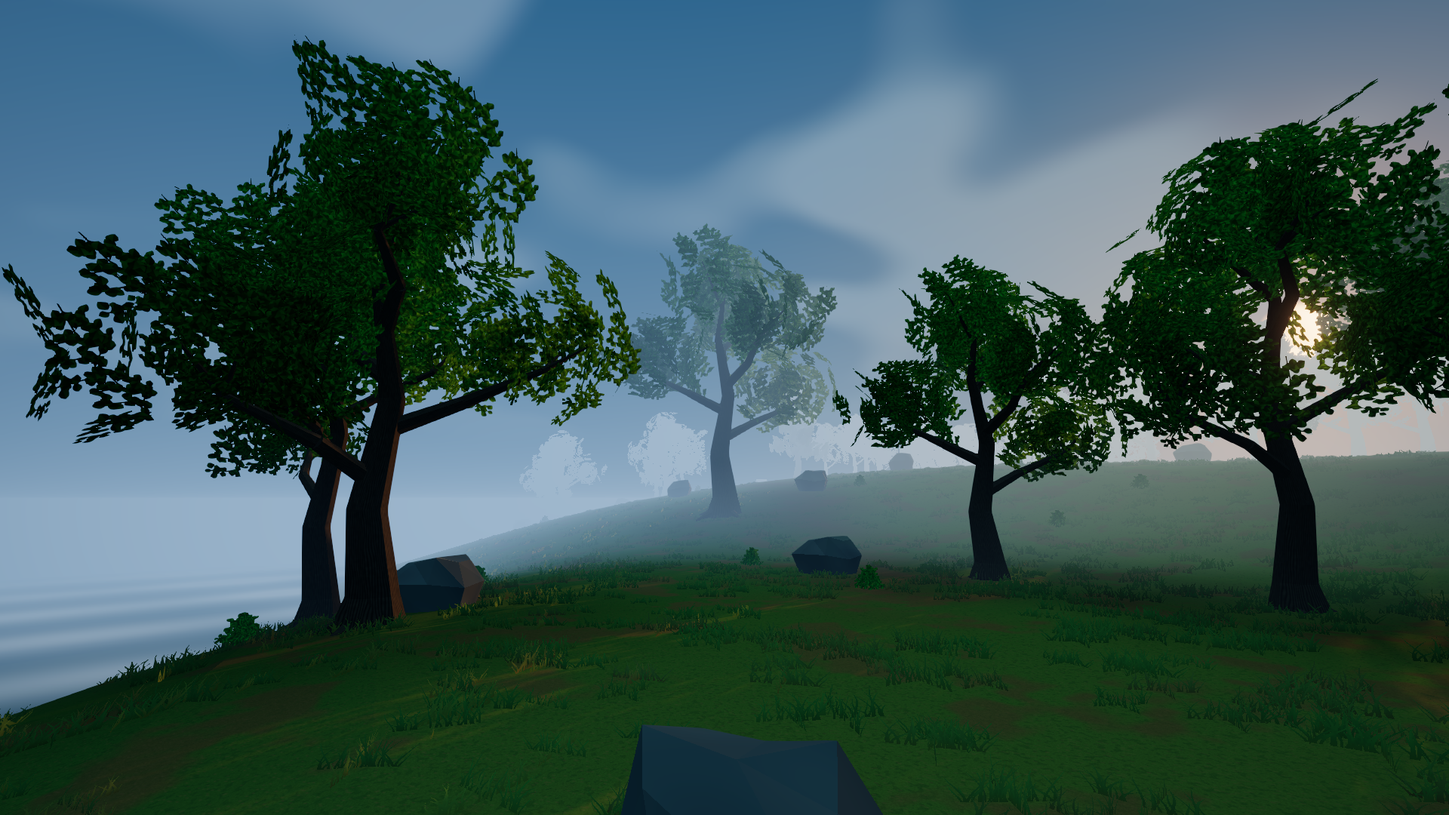
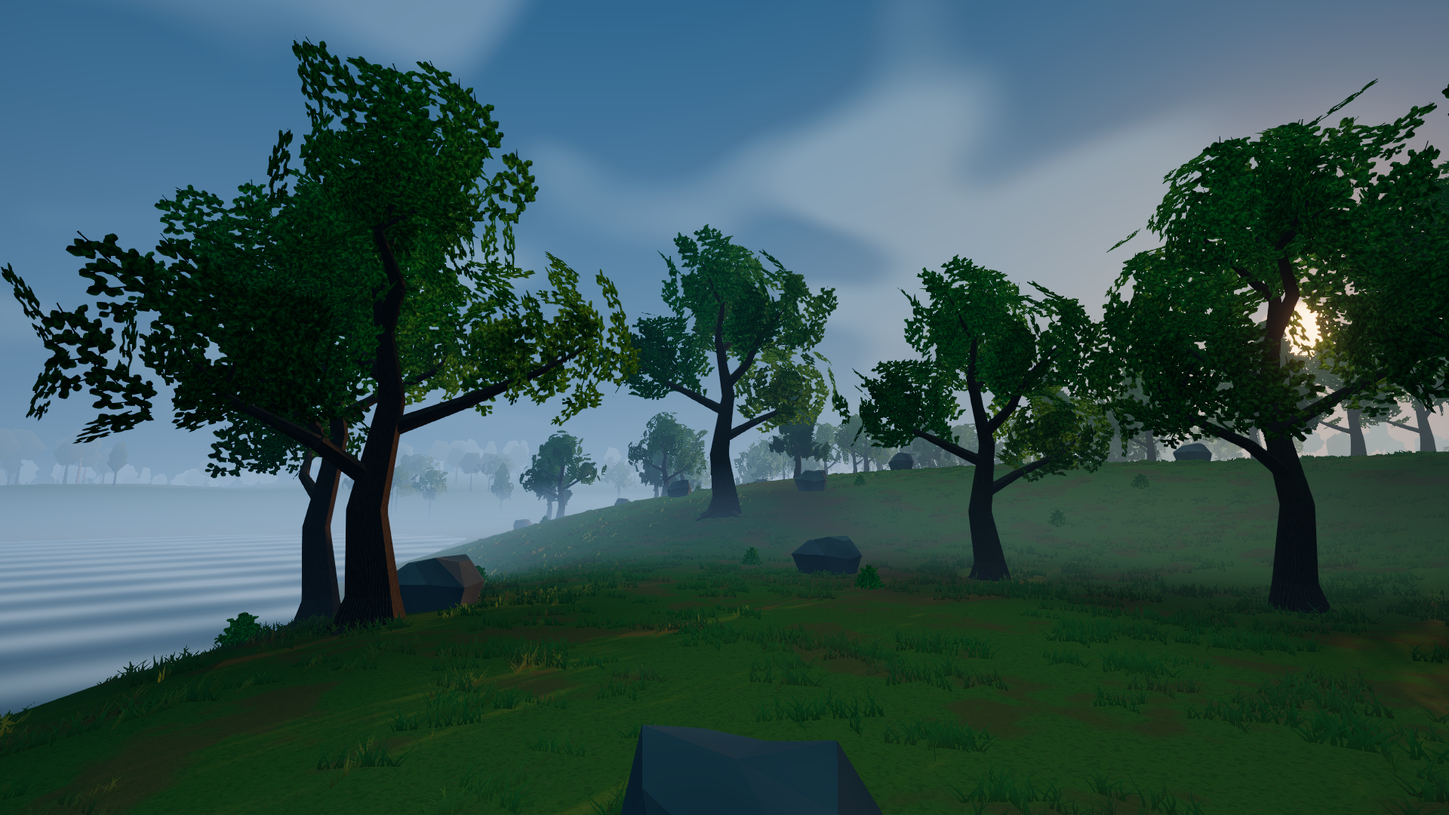
Publish distant landscape study 06 with earlier fog comparisons

diff --git a/index.html b/index.html
@@ -1,16 +1,16 @@
 <!doctype html>
-<html lang="en"><head><meta charset="utf-8"><meta name="viewport" content="width=device-width, initial-scale=1"><meta name="theme-color" content="#101a15"><meta name="description" content="Ten in-engine forest, coast, and shelter screenshots from the Survival prototype."><title>Survival - Environment Gallery</title><link rel="stylesheet" href="style.css?v=5"></head>
-<body><header class="wrap masthead"><a class="brand" href="index.html">SURVIVAL <span>DEVELOPMENT GALLERY</span></a><span class="edition">ENVIRONMENT STUDY 05</span></header>
-<main class="wrap"><section class="intro"><p class="eyebrow">FOREST / COAST / SHELTER</p><h1>A world in different light.</h1><p class="lead">Ten in-engine views with spatial anti-aliasing, HDR lighting and preset colour grading, deeper foliage colours, ground-blended grass roots, and a directional sky horizon.</p><p class="hint">Choose a view. Tap its image for the full-resolution screenshot. The canopy and shelter pages retain earlier rendering studies for comparison. Contact occlusion is off in these default views.</p></section>
-<section class="gallery" aria-label="Environment screenshots"><a class="card" href="clearing.html"><img src="images/clearing-thumb.jpg?v=5" width="640" height="360" alt="The ordinary player camera with branching tree families, finer grass, and irregular rocks." fetchpriority="high"><div class="card-body"><span class="number">DAY / PLAYABLE VIEW</span><h2>Through the clearing</h2><p>The ordinary player camera with branching tree families, finer grass, and irregular rocks.</p><span class="open">Open view <span aria-hidden="true">&#8599;</span></span></div></a>
-<a class="card" href="canopy.html"><img src="images/canopy-thumb.jpg?v=5" width="640" height="360" alt="Deeper foliage, warmer backlighting, spatial anti-aliasing, and a shared directional sky/fog horizon. Earlier studies below show the progression." loading="lazy"><div class="card-body"><span class="number">DAY / CANOPY COMPARISON</span><h2>Under the branches</h2><p>Deeper foliage, warmer backlighting, spatial anti-aliasing, and a shared directional sky/fog horizon. Earlier studies below show the progression.</p><span class="open">Open view <span aria-hidden="true">&#8599;</span></span></div></a>
-<a class="card" href="grass.html"><img src="images/grass-thumb.jpg?v=5" width="640" height="360" alt="Shorter fine grass with occasional taller accents, sparse flowers, and coherent ground patches." loading="lazy"><div class="card-body"><span class="number">DAY / GROUND DETAIL</span><h2>At meadow height</h2><p>Shorter fine grass with occasional taller accents, sparse flowers, and coherent ground patches.</p><span class="open">Open view <span aria-hidden="true">&#8599;</span></span></div></a>
-<a class="card" href="coast.html"><img src="images/coast-thumb.jpg?v=5" width="640" height="360" alt="The shoreline and a simple ripple-lighting water study. Water remains visual only." loading="lazy"><div class="card-body"><span class="number">DAY / COAST</span><h2>Where the meadow meets water</h2><p>The shoreline and a simple ripple-lighting water study. Water remains visual only.</p><span class="open">Open view <span aria-hidden="true">&#8599;</span></span></div></a>
-<a class="card" href="ridge.html"><img src="images/ridge-thumb.jpg?v=5" width="640" height="360" alt="A wide coastal panorama with mixed tree silhouettes and distant mist." loading="lazy"><div class="card-body"><span class="number">DAY / LANDSCAPE</span><h2>Across the forest edge</h2><p>A wide coastal panorama with mixed tree silhouettes and distant mist.</p><span class="open">Open view <span aria-hidden="true">&#8599;</span></span></div></a>
-<a class="card" href="dawn.html"><img src="images/dawn-thumb.jpg?v=5" width="640" height="360" alt="A curated dawn preset: low warm sunlight, cooler ambient light, and heavier mist." loading="lazy"><div class="card-body"><span class="number">DAWN / LIGHTING STUDY</span><h2>Cool morning mist</h2><p>A curated dawn preset: low warm sunlight, cooler ambient light, and heavier mist.</p><span class="open">Open view <span aria-hidden="true">&#8599;</span></span></div></a>
-<a class="card" href="golden.html"><img src="images/golden-thumb.jpg?v=5" width="640" height="360" alt="A warm low-sun preset for checking foliage volume and long shadows." loading="lazy"><div class="card-body"><span class="number">GOLDEN HOUR / LIGHTING STUDY</span><h2>Late light in the meadow</h2><p>A warm low-sun preset for checking foliage volume and long shadows.</p><span class="open">Open view <span aria-hidden="true">&#8599;</span></span></div></a>
-<a class="card" href="overcast.html"><img src="images/overcast-thumb.jpg?v=5" width="640" height="360" alt="A softer cool-light preset that exposes silhouettes and ground detail without strong sunlight." loading="lazy"><div class="card-body"><span class="number">OVERCAST / LIGHTING STUDY</span><h2>A quieter forest path</h2><p>A softer cool-light preset that exposes silhouettes and ground detail without strong sunlight.</p><span class="open">Open view <span aria-hidden="true">&#8599;</span></span></div></a>
-<a class="card" href="shelter.html"><img src="images/shelter-thumb.jpg?v=5" width="640" height="360" alt="A staged fixture built from the existing foundation, floor, wall, doorway, and flat-roof pieces." loading="lazy"><div class="card-body"><span class="number">DAY / CONSTRUCTION STUDY</span><h2>A shelter in the clearing</h2><p>A staged fixture built from the existing foundation, floor, wall, doorway, and flat-roof pieces.</p><span class="open">Open view <span aria-hidden="true">&#8599;</span></span></div></a>
-<a class="card" href="dusk.html"><img src="images/dusk-thumb.jpg?v=5" width="640" height="360" alt="The same prototype pieces at dusk with a capture-only ember and point-light fixture. Campfire gameplay is not implemented." loading="lazy"><div class="card-body"><span class="number">DUSK / LOCAL LIGHT STUDY</span><h2>Warmth beside the shelter</h2><p>The same prototype pieces at dusk with a capture-only ember and point-light fixture. Campfire gameplay is not implemented.</p><span class="open">Open view <span aria-hidden="true">&#8599;</span></span></div></a></section>
+<html lang="en"><head><meta charset="utf-8"><meta name="viewport" content="width=device-width, initial-scale=1"><meta name="theme-color" content="#101a15"><meta name="description" content="Ten in-engine forest, coast, and shelter screenshots from the Survival prototype."><title>Survival - Environment Gallery</title><link rel="stylesheet" href="style.css?v=6"></head>
+<body><header class="wrap masthead"><a class="brand" href="index.html">SURVIVAL <span>DEVELOPMENT GALLERY</span></a><span class="edition">ENVIRONMENT STUDY 06</span></header>
+<main class="wrap"><section class="intro"><p class="eyebrow">FOREST / COAST / SHELTER</p><h1>A world in different light.</h1><p class="lead">Ten in-engine views with distant terrain and forest silhouettes beyond the interactive world window. Coverage-aware haze reveals a longer middle distance while the near-world gameplay budget stays bounded.</p><p class="hint">Choose a view. Tap its image for the full-resolution screenshot. Clearing, landscape, and canopy views compare the earlier fog boundary. Other pages retain earlier rendering studies. Contact occlusion is off in these default views.</p></section>
+<section class="gallery" aria-label="Environment screenshots"><a class="card" href="clearing.html"><img src="images/clearing-thumb.jpg?v=6" width="640" height="360" alt="The ordinary player camera with the nearby forest and a new visual-only distant landscape." fetchpriority="high"><div class="card-body"><span class="number">DAY / PLAYABLE VIEW</span><h2>Through the clearing</h2><p>The ordinary player camera with the nearby forest and a new visual-only distant landscape.</p><span class="open">Open view <span aria-hidden="true">&#8599;</span></span></div></a>
+<a class="card" href="canopy.html"><img src="images/canopy-thumb.jpg?v=6" width="640" height="360" alt="Deeper foliage, warmer backlighting, spatial anti-aliasing, and a shared directional sky/fog horizon. Earlier studies below show the progression." loading="lazy"><div class="card-body"><span class="number">DAY / CANOPY COMPARISON</span><h2>Under the branches</h2><p>Deeper foliage, warmer backlighting, spatial anti-aliasing, and a shared directional sky/fog horizon. Earlier studies below show the progression.</p><span class="open">Open view <span aria-hidden="true">&#8599;</span></span></div></a>
+<a class="card" href="grass.html"><img src="images/grass-thumb.jpg?v=6" width="640" height="360" alt="Shorter fine grass with occasional taller accents, sparse flowers, and coherent ground patches." loading="lazy"><div class="card-body"><span class="number">DAY / GROUND DETAIL</span><h2>At meadow height</h2><p>Shorter fine grass with occasional taller accents, sparse flowers, and coherent ground patches.</p><span class="open">Open view <span aria-hidden="true">&#8599;</span></span></div></a>
+<a class="card" href="coast.html"><img src="images/coast-thumb.jpg?v=6" width="640" height="360" alt="The shoreline and a simple ripple-lighting water study. Water remains visual only." loading="lazy"><div class="card-body"><span class="number">DAY / COAST</span><h2>Where the meadow meets water</h2><p>The shoreline and a simple ripple-lighting water study. Water remains visual only.</p><span class="open">Open view <span aria-hidden="true">&#8599;</span></span></div></a>
+<a class="card" href="ridge.html"><img src="images/ridge-thumb.jpg?v=6" width="640" height="360" alt="A wider coastal panorama showing coarse distant land, combined forest silhouettes, and coverage-aware haze." loading="lazy"><div class="card-body"><span class="number">DAY / LANDSCAPE</span><h2>Across the forest edge</h2><p>A wider coastal panorama showing coarse distant land, combined forest silhouettes, and coverage-aware haze.</p><span class="open">Open view <span aria-hidden="true">&#8599;</span></span></div></a>
+<a class="card" href="dawn.html"><img src="images/dawn-thumb.jpg?v=6" width="640" height="360" alt="A curated dawn preset: low warm sunlight, cooler ambient light, and heavier mist." loading="lazy"><div class="card-body"><span class="number">DAWN / LIGHTING STUDY</span><h2>Cool morning mist</h2><p>A curated dawn preset: low warm sunlight, cooler ambient light, and heavier mist.</p><span class="open">Open view <span aria-hidden="true">&#8599;</span></span></div></a>
+<a class="card" href="golden.html"><img src="images/golden-thumb.jpg?v=6" width="640" height="360" alt="A warm low-sun preset for checking foliage volume and long shadows." loading="lazy"><div class="card-body"><span class="number">GOLDEN HOUR / LIGHTING STUDY</span><h2>Late light in the meadow</h2><p>A warm low-sun preset for checking foliage volume and long shadows.</p><span class="open">Open view <span aria-hidden="true">&#8599;</span></span></div></a>
+<a class="card" href="overcast.html"><img src="images/overcast-thumb.jpg?v=6" width="640" height="360" alt="A softer cool-light preset that exposes silhouettes and ground detail without strong sunlight." loading="lazy"><div class="card-body"><span class="number">OVERCAST / LIGHTING STUDY</span><h2>A quieter forest path</h2><p>A softer cool-light preset that exposes silhouettes and ground detail without strong sunlight.</p><span class="open">Open view <span aria-hidden="true">&#8599;</span></span></div></a>
+<a class="card" href="shelter.html"><img src="images/shelter-thumb.jpg?v=6" width="640" height="360" alt="A staged fixture built from the existing foundation, floor, wall, doorway, and flat-roof pieces." loading="lazy"><div class="card-body"><span class="number">DAY / CONSTRUCTION STUDY</span><h2>A shelter in the clearing</h2><p>A staged fixture built from the existing foundation, floor, wall, doorway, and flat-roof pieces.</p><span class="open">Open view <span aria-hidden="true">&#8599;</span></span></div></a>
+<a class="card" href="dusk.html"><img src="images/dusk-thumb.jpg?v=6" width="640" height="360" alt="The same prototype pieces at dusk with a capture-only ember and point-light fixture. Campfire gameplay is not implemented." loading="lazy"><div class="card-body"><span class="number">DUSK / LOCAL LIGHT STUDY</span><h2>Warmth beside the shelter</h2><p>The same prototype pieces at dusk with a capture-only ember and point-light fixture. Campfire gameplay is not implemented.</p><span class="open">Open view <span aria-hidden="true">&#8599;</span></span></div></a></section>
 <aside class="note"><strong>A work in progress.</strong> Original procedural assets, rendered in the game. Dawn, golden-hour, overcast, and dusk images use curated art presets; they do not demonstrate a day/night or weather cycle. Shelter scenes are staged from existing build pieces, and the dusk fire is a lighting fixture. This is a screenshot gallery, not a playable mobile game.</aside></main>
-<footer class="wrap footer">SURVIVAL <span>Environment study 05 - ten views</span></footer></body></html>
+<footer class="wrap footer">SURVIVAL <span>Environment study 06 - ten views</span></footer></body></html>

diff --git a/canopy.html b/canopy.html
@@ -1,7 +1,7 @@
 <!doctype html>
-<html lang="en"><head><meta charset="utf-8"><meta name="viewport" content="width=device-width, initial-scale=1"><meta name="theme-color" content="#101a15"><title>Under the branches - Survival Gallery</title><link rel="stylesheet" href="style.css?v=5"></head>
-<body><header class="wrap masthead"><a class="brand" href="index.html">SURVIVAL <span>DEVELOPMENT GALLERY</span></a><span class="edition">ENVIRONMENT STUDY 05</span></header>
+<html lang="en"><head><meta charset="utf-8"><meta name="viewport" content="width=device-width, initial-scale=1"><meta name="theme-color" content="#101a15"><title>Under the branches - Survival Gallery</title><link rel="stylesheet" href="style.css?v=6"></head>
+<body><header class="wrap masthead"><a class="brand" href="index.html">SURVIVAL <span>DEVELOPMENT GALLERY</span></a><span class="edition">ENVIRONMENT STUDY 06</span></header>
 <main class="wrap"><section class="view-header"><a class="back" href="index.html">&#8592; All views</a><p class="eyebrow">DAY / CANOPY COMPARISON</p><h1>Under the branches</h1><p>Deeper foliage, warmer backlighting, spatial anti-aliasing, and a shared directional sky/fog horizon. Earlier studies below show the progression.</p></section>
-<figure class="image-frame"><a href="images/canopy-full.png?v=5"><img src="images/canopy.jpg?v=5" width="1280" height="720" alt="Deeper foliage, warmer backlighting, spatial anti-aliasing, and a shared directional sky/fog horizon. Earlier studies below show the progression." fetchpriority="high"></a><figcaption>Captured in Unity at 1920 &#215; 1080. Tap the image for the original PNG. Lighting variants are curated art presets, not a running day/night or weather system.</figcaption></figure><section class="view-header"><h2>Before this rendering pass</h2><p>Study 04: the same camera before SMAA, HDR capture and grading, foliage colours, grass-root blending, and directional horizon tint. Wind can differ between captures.</p></section><figure class="image-frame"><a href="images/study04-canopy-full.png"><img src="images/study04-canopy.jpg" width="1280" height="720" alt="Study 04 before the rendering recommendations pass" loading="lazy"></a><figcaption>Study 04. Tap for the original screenshot.</figcaption></figure><section class="view-header"><h2>Before the lighting pass</h2><p>Study 03: the same camera and procedural assets before the sunlight, ambient shading, and fog changes. Wind can differ between captures.</p></section><figure class="image-frame"><a href="images/study03-canopy-full.png"><img src="images/study03-canopy.jpg" width="1280" height="720" alt="Study 03 before the lighting pass" loading="lazy"></a><figcaption>Study 03. Tap for the original screenshot.</figcaption></figure><section class="view-header"><h2>Forest study 02</h2><p>The same camera before the branch-led tree, rock, and ground-cover changes.</p></section><figure class="image-frame"><a href="images/study02-canopy-full.png"><img src="images/study02-canopy.jpg" width="1280" height="720" alt="Study 02 canopy capture before the branch-led tree family changes" loading="lazy"></a><figcaption>Study 02. Tap for the original screenshot.</figcaption></figure><section class="view-header"><h2>Original procedural study</h2><p>An earlier build using the same camera position, not another current lighting preset.</p></section><figure class="image-frame"><a href="images/before-canopy-full.png"><img src="images/before-canopy.jpg" width="1280" height="720" alt="Earlier canopy study with repeated branch shapes and larger leaf patterns" loading="lazy"></a><figcaption>Original study. Tap for the original screenshot.</figcaption></figure>
+<figure class="image-frame"><a href="images/canopy-full.png?v=6"><img src="images/canopy.jpg?v=6" width="1280" height="720" alt="Deeper foliage, warmer backlighting, spatial anti-aliasing, and a shared directional sky/fog horizon. Earlier studies below show the progression." fetchpriority="high"></a><figcaption>Captured in Unity at 1920 &#215; 1080. Tap the image for the original PNG. Lighting variants are curated art presets, not a running day/night or weather system.</figcaption></figure><section class="view-header"><h2>Before distant landscape coverage</h2><p>Study 05: the same camera with the earlier short fog boundary. The current view adds coarse visual-only terrain and tree silhouettes; wind can differ.</p></section><figure class="image-frame"><a href="images/study05-canopy-full.png"><img src="images/study05-canopy.jpg" width="1280" height="720" alt="Study 05 before distant terrain and tree coverage" loading="lazy"></a><figcaption>Study 05. Tap for the original screenshot.</figcaption></figure><section class="view-header"><h2>Before this rendering pass</h2><p>Study 04: the same camera before SMAA, HDR capture and grading, foliage colours, grass-root blending, and directional horizon tint. Wind can differ between captures.</p></section><figure class="image-frame"><a href="images/study04-canopy-full.png"><img src="images/study04-canopy.jpg" width="1280" height="720" alt="Study 04 before the rendering recommendations pass" loading="lazy"></a><figcaption>Study 04. Tap for the original screenshot.</figcaption></figure><section class="view-header"><h2>Before the lighting pass</h2><p>Study 03: the same camera and procedural assets before the sunlight, ambient shading, and fog changes. Wind can differ between captures.</p></section><figure class="image-frame"><a href="images/study03-canopy-full.png"><img src="images/study03-canopy.jpg" width="1280" height="720" alt="Study 03 before the lighting pass" loading="lazy"></a><figcaption>Study 03. Tap for the original screenshot.</figcaption></figure><section class="view-header"><h2>Forest study 02</h2><p>The same camera before the branch-led tree, rock, and ground-cover changes.</p></section><figure class="image-frame"><a href="images/study02-canopy-full.png"><img src="images/study02-canopy.jpg" width="1280" height="720" alt="Study 02 canopy capture before the branch-led tree family changes" loading="lazy"></a><figcaption>Study 02. Tap for the original screenshot.</figcaption></figure><section class="view-header"><h2>Original procedural study</h2><p>An earlier build using the same camera position, not another current lighting preset.</p></section><figure class="image-frame"><a href="images/before-canopy-full.png"><img src="images/before-canopy.jpg" width="1280" height="720" alt="Earlier canopy study with repeated branch shapes and larger leaf patterns" loading="lazy"></a><figcaption>Original study. Tap for the original screenshot.</figcaption></figure>
 <nav class="view-nav" aria-label="Screenshot navigation"><a href="clearing.html">&#8592; Through the clearing</a><a class="next" href="grass.html">At meadow height &#8594;</a></nav></main>
 <footer class="wrap footer">SURVIVAL <span>In-engine development captures</span></footer></body></html>

diff --git a/shelter.html b/shelter.html
@@ -1,7 +1,7 @@
 <!doctype html>
-<html lang="en"><head><meta charset="utf-8"><meta name="viewport" content="width=device-width, initial-scale=1"><meta name="theme-color" content="#101a15"><title>A shelter in the clearing - Survival Gallery</title><link rel="stylesheet" href="style.css?v=5"></head>
-<body><header class="wrap masthead"><a class="brand" href="index.html">SURVIVAL <span>DEVELOPMENT GALLERY</span></a><span class="edition">ENVIRONMENT STUDY 05</span></header>
+<html lang="en"><head><meta charset="utf-8"><meta name="viewport" content="width=device-width, initial-scale=1"><meta name="theme-color" content="#101a15"><title>A shelter in the clearing - Survival Gallery</title><link rel="stylesheet" href="style.css?v=6"></head>
+<body><header class="wrap masthead"><a class="brand" href="index.html">SURVIVAL <span>DEVELOPMENT GALLERY</span></a><span class="edition">ENVIRONMENT STUDY 06</span></header>
 <main class="wrap"><section class="view-header"><a class="back" href="index.html">&#8592; All views</a><p class="eyebrow">DAY / CONSTRUCTION STUDY</p><h1>A shelter in the clearing</h1><p>A staged fixture built from the existing foundation, floor, wall, doorway, and flat-roof pieces.</p></section>
-<figure class="image-frame"><a href="images/shelter-full.png?v=5"><img src="images/shelter.jpg?v=5" width="1280" height="720" alt="A staged fixture built from the existing foundation, floor, wall, doorway, and flat-roof pieces." fetchpriority="high"></a><figcaption>Captured in Unity at 1920 &#215; 1080. Tap the image for the original PNG. Lighting variants are curated art presets, not a running day/night or weather system.</figcaption></figure><section class="view-header"><h2>Before this rendering pass</h2><p>Study 04: the same camera before SMAA, HDR capture and grading, foliage colours, grass-root blending, and directional horizon tint. Wind can differ between captures.</p></section><figure class="image-frame"><a href="images/study04-shelter-full.png"><img src="images/study04-shelter.jpg" width="1280" height="720" alt="Study 04 before the rendering recommendations pass" loading="lazy"></a><figcaption>Study 04. Tap for the original screenshot.</figcaption></figure><section class="view-header"><h2>Before the lighting pass</h2><p>Study 03: the same camera and procedural assets before the sunlight, ambient shading, and fog changes. Wind can differ between captures.</p></section><figure class="image-frame"><a href="images/study03-shelter-full.png"><img src="images/study03-shelter.jpg" width="1280" height="720" alt="Study 03 before the lighting pass" loading="lazy"></a><figcaption>Study 03. Tap for the original screenshot.</figcaption></figure>
+<figure class="image-frame"><a href="images/shelter-full.png?v=6"><img src="images/shelter.jpg?v=6" width="1280" height="720" alt="A staged fixture built from the existing foundation, floor, wall, doorway, and flat-roof pieces." fetchpriority="high"></a><figcaption>Captured in Unity at 1920 &#215; 1080. Tap the image for the original PNG. Lighting variants are curated art presets, not a running day/night or weather system.</figcaption></figure><section class="view-header"><h2>Before this rendering pass</h2><p>Study 04: the same camera before SMAA, HDR capture and grading, foliage colours, grass-root blending, and directional horizon tint. Wind can differ between captures.</p></section><figure class="image-frame"><a href="images/study04-shelter-full.png"><img src="images/study04-shelter.jpg" width="1280" height="720" alt="Study 04 before the rendering recommendations pass" loading="lazy"></a><figcaption>Study 04. Tap for the original screenshot.</figcaption></figure><section class="view-header"><h2>Before the lighting pass</h2><p>Study 03: the same camera and procedural assets before the sunlight, ambient shading, and fog changes. Wind can differ between captures.</p></section><figure class="image-frame"><a href="images/study03-shelter-full.png"><img src="images/study03-shelter.jpg" width="1280" height="720" alt="Study 03 before the lighting pass" loading="lazy"></a><figcaption>Study 03. Tap for the original screenshot.</figcaption></figure>
 <nav class="view-nav" aria-label="Screenshot navigation"><a href="overcast.html">&#8592; A quieter forest path</a><a class="next" href="dusk.html">Warmth beside the shelter &#8594;</a></nav></main>
 <footer class="wrap footer">SURVIVAL <span>In-engine development captures</span></footer></body></html>

diff --git a/clearing.html b/clearing.html
@@ -1,7 +1,7 @@
 <!doctype html>
-<html lang="en"><head><meta charset="utf-8"><meta name="viewport" content="width=device-width, initial-scale=1"><meta name="theme-color" content="#101a15"><title>Through the clearing - Survival Gallery</title><link rel="stylesheet" href="style.css?v=5"></head>
-<body><header class="wrap masthead"><a class="brand" href="index.html">SURVIVAL <span>DEVELOPMENT GALLERY</span></a><span class="edition">ENVIRONMENT STUDY 05</span></header>
-<main class="wrap"><section class="view-header"><a class="back" href="index.html">&#8592; All views</a><p class="eyebrow">DAY / PLAYABLE VIEW</p><h1>Through the clearing</h1><p>The ordinary player camera with branching tree families, finer grass, and irregular rocks.</p></section>
-<figure class="image-frame"><a href="images/clearing-full.png?v=5"><img src="images/clearing.jpg?v=5" width="1280" height="720" alt="The ordinary player camera with branching tree families, finer grass, and irregular rocks." fetchpriority="high"></a><figcaption>Captured in Unity at 1920 &#215; 1080. Tap the image for the original PNG. Lighting variants are curated art presets, not a running day/night or weather system.</figcaption></figure>
+<html lang="en"><head><meta charset="utf-8"><meta name="viewport" content="width=device-width, initial-scale=1"><meta name="theme-color" content="#101a15"><title>Through the clearing - Survival Gallery</title><link rel="stylesheet" href="style.css?v=6"></head>
+<body><header class="wrap masthead"><a class="brand" href="index.html">SURVIVAL <span>DEVELOPMENT GALLERY</span></a><span class="edition">ENVIRONMENT STUDY 06</span></header>
+<main class="wrap"><section class="view-header"><a class="back" href="index.html">&#8592; All views</a><p class="eyebrow">DAY / PLAYABLE VIEW</p><h1>Through the clearing</h1><p>The ordinary player camera with the nearby forest and a new visual-only distant landscape.</p></section>
+<figure class="image-frame"><a href="images/clearing-full.png?v=6"><img src="images/clearing.jpg?v=6" width="1280" height="720" alt="The ordinary player camera with the nearby forest and a new visual-only distant landscape." fetchpriority="high"></a><figcaption>Captured in Unity at 1920 &#215; 1080. Tap the image for the original PNG. Lighting variants are curated art presets, not a running day/night or weather system.</figcaption></figure><section class="view-header"><h2>Before distant landscape coverage</h2><p>Study 05: the same camera with the earlier short fog boundary. The current view adds coarse visual-only terrain and tree silhouettes; wind can differ.</p></section><figure class="image-frame"><a href="images/study05-clearing-full.png"><img src="images/study05-clearing.jpg" width="1280" height="720" alt="Study 05 before distant terrain and tree coverage" loading="lazy"></a><figcaption>Study 05. Tap for the original screenshot.</figcaption></figure>
 <nav class="view-nav" aria-label="Screenshot navigation"><a href="dusk.html">&#8592; Warmth beside the shelter</a><a class="next" href="canopy.html">Under the branches &#8594;</a></nav></main>
 <footer class="wrap footer">SURVIVAL <span>In-engine development captures</span></footer></body></html>

diff --git a/ridge.html b/ridge.html
@@ -1,7 +1,7 @@
 <!doctype html>
-<html lang="en"><head><meta charset="utf-8"><meta name="viewport" content="width=device-width, initial-scale=1"><meta name="theme-color" content="#101a15"><title>Across the forest edge - Survival Gallery</title><link rel="stylesheet" href="style.css?v=5"></head>
-<body><header class="wrap masthead"><a class="brand" href="index.html">SURVIVAL <span>DEVELOPMENT GALLERY</span></a><span class="edition">ENVIRONMENT STUDY 05</span></header>
-<main class="wrap"><section class="view-header"><a class="back" href="index.html">&#8592; All views</a><p class="eyebrow">DAY / LANDSCAPE</p><h1>Across the forest edge</h1><p>A wide coastal panorama with mixed tree silhouettes and distant mist.</p></section>
-<figure class="image-frame"><a href="images/ridge-full.png?v=5"><img src="images/ridge.jpg?v=5" width="1280" height="720" alt="A wide coastal panorama with mixed tree silhouettes and distant mist." fetchpriority="high"></a><figcaption>Captured in Unity at 1920 &#215; 1080. Tap the image for the original PNG. Lighting variants are curated art presets, not a running day/night or weather system.</figcaption></figure>
+<html lang="en"><head><meta charset="utf-8"><meta name="viewport" content="width=device-width, initial-scale=1"><meta name="theme-color" content="#101a15"><title>Across the forest edge - Survival Gallery</title><link rel="stylesheet" href="style.css?v=6"></head>
+<body><header class="wrap masthead"><a class="brand" href="index.html">SURVIVAL <span>DEVELOPMENT GALLERY</span></a><span class="edition">ENVIRONMENT STUDY 06</span></header>
+<main class="wrap"><section class="view-header"><a class="back" href="index.html">&#8592; All views</a><p class="eyebrow">DAY / LANDSCAPE</p><h1>Across the forest edge</h1><p>A wider coastal panorama showing coarse distant land, combined forest silhouettes, and coverage-aware haze.</p></section>
+<figure class="image-frame"><a href="images/ridge-full.png?v=6"><img src="images/ridge.jpg?v=6" width="1280" height="720" alt="A wider coastal panorama showing coarse distant land, combined forest silhouettes, and coverage-aware haze." fetchpriority="high"></a><figcaption>Captured in Unity at 1920 &#215; 1080. Tap the image for the original PNG. Lighting variants are curated art presets, not a running day/night or weather system.</figcaption></figure><section class="view-header"><h2>Before distant landscape coverage</h2><p>Study 05: the same camera with the earlier short fog boundary. The current view adds coarse visual-only terrain and tree silhouettes; wind can differ.</p></section><figure class="image-frame"><a href="images/study05-ridge-full.png"><img src="images/study05-ridge.jpg" width="1280" height="720" alt="Study 05 before distant terrain and tree coverage" loading="lazy"></a><figcaption>Study 05. Tap for the original screenshot.</figcaption></figure>
 <nav class="view-nav" aria-label="Screenshot navigation"><a href="coast.html">&#8592; Where the meadow meets water</a><a class="next" href="dawn.html">Cool morning mist &#8594;</a></nav></main>
 <footer class="wrap footer">SURVIVAL <span>In-engine development captures</span></footer></body></html>

diff --git a/dusk.html b/dusk.html
@@ -1,7 +1,7 @@
 <!doctype html>
-<html lang="en"><head><meta charset="utf-8"><meta name="viewport" content="width=device-width, initial-scale=1"><meta name="theme-color" content="#101a15"><title>Warmth beside the shelter - Survival Gallery</title><link rel="stylesheet" href="style.css?v=5"></head>
-<body><header class="wrap masthead"><a class="brand" href="index.html">SURVIVAL <span>DEVELOPMENT GALLERY</span></a><span class="edition">ENVIRONMENT STUDY 05</span></header>
+<html lang="en"><head><meta charset="utf-8"><meta name="viewport" content="width=device-width, initial-scale=1"><meta name="theme-color" content="#101a15"><title>Warmth beside the shelter - Survival Gallery</title><link rel="stylesheet" href="style.css?v=6"></head>
+<body><header class="wrap masthead"><a class="brand" href="index.html">SURVIVAL <span>DEVELOPMENT GALLERY</span></a><span class="edition">ENVIRONMENT STUDY 06</span></header>
 <main class="wrap"><section class="view-header"><a class="back" href="index.html">&#8592; All views</a><p class="eyebrow">DUSK / LOCAL LIGHT STUDY</p><h1>Warmth beside the shelter</h1><p>The same prototype pieces at dusk with a capture-only ember and point-light fixture. Campfire gameplay is not implemented.</p></section>
-<figure class="image-frame"><a href="images/dusk-full.png?v=5"><img src="images/dusk.jpg?v=5" width="1280" height="720" alt="The same prototype pieces at dusk with a capture-only ember and point-light fixture. Campfire gameplay is not implemented." fetchpriority="high"></a><figcaption>Captured in Unity at 1920 &#215; 1080. Tap the image for the original PNG. Lighting variants are curated art presets, not a running day/night or weather system.</figcaption></figure>
+<figure class="image-frame"><a href="images/dusk-full.png?v=6"><img src="images/dusk.jpg?v=6" width="1280" height="720" alt="The same prototype pieces at dusk with a capture-only ember and point-light fixture. Campfire gameplay is not implemented." fetchpriority="high"></a><figcaption>Captured in Unity at 1920 &#215; 1080. Tap the image for the original PNG. Lighting variants are curated art presets, not a running day/night or weather system.</figcaption></figure>
 <nav class="view-nav" aria-label="Screenshot navigation"><a href="shelter.html">&#8592; A shelter in the clearing</a><a class="next" href="clearing.html">Through the clearing &#8594;</a></nav></main>
 <footer class="wrap footer">SURVIVAL <span>In-engine development captures</span></footer></body></html>

diff --git a/overcast.html b/overcast.html
@@ -1,7 +1,7 @@
 <!doctype html>
-<html lang="en"><head><meta charset="utf-8"><meta name="viewport" content="width=device-width, initial-scale=1"><meta name="theme-color" content="#101a15"><title>A quieter forest path - Survival Gallery</title><link rel="stylesheet" href="style.css?v=5"></head>
-<body><header class="wrap masthead"><a class="brand" href="index.html">SURVIVAL <span>DEVELOPMENT GALLERY</span></a><span class="edition">ENVIRONMENT STUDY 05</span></header>
+<html lang="en"><head><meta charset="utf-8"><meta name="viewport" content="width=device-width, initial-scale=1"><meta name="theme-color" content="#101a15"><title>A quieter forest path - Survival Gallery</title><link rel="stylesheet" href="style.css?v=6"></head>
+<body><header class="wrap masthead"><a class="brand" href="index.html">SURVIVAL <span>DEVELOPMENT GALLERY</span></a><span class="edition">ENVIRONMENT STUDY 06</span></header>
 <main class="wrap"><section class="view-header"><a class="back" href="index.html">&#8592; All views</a><p class="eyebrow">OVERCAST / LIGHTING STUDY</p><h1>A quieter forest path</h1><p>A softer cool-light preset that exposes silhouettes and ground detail without strong sunlight.</p></section>
-<figure class="image-frame"><a href="images/overcast-full.png?v=5"><img src="images/overcast.jpg?v=5" width="1280" height="720" alt="A softer cool-light preset that exposes silhouettes and ground detail without strong sunlight." fetchpriority="high"></a><figcaption>Captured in Unity at 1920 &#215; 1080. Tap the image for the original PNG. Lighting variants are curated art presets, not a running day/night or weather system.</figcaption></figure>
+<figure class="image-frame"><a href="images/overcast-full.png?v=6"><img src="images/overcast.jpg?v=6" width="1280" height="720" alt="A softer cool-light preset that exposes silhouettes and ground detail without strong sunlight." fetchpriority="high"></a><figcaption>Captured in Unity at 1920 &#215; 1080. Tap the image for the original PNG. Lighting variants are curated art presets, not a running day/night or weather system.</figcaption></figure>
 <nav class="view-nav" aria-label="Screenshot navigation"><a href="golden.html">&#8592; Late light in the meadow</a><a class="next" href="shelter.html">A shelter in the clearing &#8594;</a></nav></main>
 <footer class="wrap footer">SURVIVAL <span>In-engine development captures</span></footer></body></html>

diff --git a/grass.html b/grass.html
@@ -1,7 +1,7 @@
 <!doctype html>
-<html lang="en"><head><meta charset="utf-8"><meta name="viewport" content="width=device-width, initial-scale=1"><meta name="theme-color" content="#101a15"><title>At meadow height - Survival Gallery</title><link rel="stylesheet" href="style.css?v=5"></head>
-<body><header class="wrap masthead"><a class="brand" href="index.html">SURVIVAL <span>DEVELOPMENT GALLERY</span></a><span class="edition">ENVIRONMENT STUDY 05</span></header>
+<html lang="en"><head><meta charset="utf-8"><meta name="viewport" content="width=device-width, initial-scale=1"><meta name="theme-color" content="#101a15"><title>At meadow height - Survival Gallery</title><link rel="stylesheet" href="style.css?v=6"></head>
+<body><header class="wrap masthead"><a class="brand" href="index.html">SURVIVAL <span>DEVELOPMENT GALLERY</span></a><span class="edition">ENVIRONMENT STUDY 06</span></header>
 <main class="wrap"><section class="view-header"><a class="back" href="index.html">&#8592; All views</a><p class="eyebrow">DAY / GROUND DETAIL</p><h1>At meadow height</h1><p>Shorter fine grass with occasional taller accents, sparse flowers, and coherent ground patches.</p></section>
-<figure class="image-frame"><a href="images/grass-full.png?v=5"><img src="images/grass.jpg?v=5" width="1280" height="720" alt="Shorter fine grass with occasional taller accents, sparse flowers, and coherent ground patches." fetchpriority="high"></a><figcaption>Captured in Unity at 1920 &#215; 1080. Tap the image for the original PNG. Lighting variants are curated art presets, not a running day/night or weather system.</figcaption></figure>
+<figure class="image-frame"><a href="images/grass-full.png?v=6"><img src="images/grass.jpg?v=6" width="1280" height="720" alt="Shorter fine grass with occasional taller accents, sparse flowers, and coherent ground patches." fetchpriority="high"></a><figcaption>Captured in Unity at 1920 &#215; 1080. Tap the image for the original PNG. Lighting variants are curated art presets, not a running day/night or weather system.</figcaption></figure>
 <nav class="view-nav" aria-label="Screenshot navigation"><a href="canopy.html">&#8592; Under the branches</a><a class="next" href="coast.html">Where the meadow meets water &#8594;</a></nav></main>
 <footer class="wrap footer">SURVIVAL <span>In-engine development captures</span></footer></body></html>

diff --git a/coast.html b/coast.html
@@ -1,7 +1,7 @@
 <!doctype html>
-<html lang="en"><head><meta charset="utf-8"><meta name="viewport" content="width=device-width, initial-scale=1"><meta name="theme-color" content="#101a15"><title>Where the meadow meets water - Survival Gallery</title><link rel="stylesheet" href="style.css?v=5"></head>
-<body><header class="wrap masthead"><a class="brand" href="index.html">SURVIVAL <span>DEVELOPMENT GALLERY</span></a><span class="edition">ENVIRONMENT STUDY 05</span></header>
+<html lang="en"><head><meta charset="utf-8"><meta name="viewport" content="width=device-width, initial-scale=1"><meta name="theme-color" content="#101a15"><title>Where the meadow meets water - Survival Gallery</title><link rel="stylesheet" href="style.css?v=6"></head>
+<body><header class="wrap masthead"><a class="brand" href="index.html">SURVIVAL <span>DEVELOPMENT GALLERY</span></a><span class="edition">ENVIRONMENT STUDY 06</span></header>
 <main class="wrap"><section class="view-header"><a class="back" href="index.html">&#8592; All views</a><p class="eyebrow">DAY / COAST</p><h1>Where the meadow meets water</h1><p>The shoreline and a simple ripple-lighting water study. Water remains visual only.</p></section>
-<figure class="image-frame"><a href="images/coast-full.png?v=5"><img src="images/coast.jpg?v=5" width="1280" height="720" alt="The shoreline and a simple ripple-lighting water study. Water remains visual only." fetchpriority="high"></a><figcaption>Captured in Unity at 1920 &#215; 1080. Tap the image for the original PNG. Lighting variants are curated art presets, not a running day/night or weather system.</figcaption></figure>
+<figure class="image-frame"><a href="images/coast-full.png?v=6"><img src="images/coast.jpg?v=6" width="1280" height="720" alt="The shoreline and a simple ripple-lighting water study. Water remains visual only." fetchpriority="high"></a><figcaption>Captured in Unity at 1920 &#215; 1080. Tap the image for the original PNG. Lighting variants are curated art presets, not a running day/night or weather system.</figcaption></figure>
 <nav class="view-nav" aria-label="Screenshot navigation"><a href="grass.html">&#8592; At meadow height</a><a class="next" href="ridge.html">Across the forest edge &#8594;</a></nav></main>
 <footer class="wrap footer">SURVIVAL <span>In-engine development captures</span></footer></body></html>

diff --git a/dawn.html b/dawn.html
@@ -1,7 +1,7 @@
 <!doctype html>
-<html lang="en"><head><meta charset="utf-8"><meta name="viewport" content="width=device-width, initial-scale=1"><meta name="theme-color" content="#101a15"><title>Cool morning mist - Survival Gallery</title><link rel="stylesheet" href="style.css?v=5"></head>
-<body><header class="wrap masthead"><a class="brand" href="index.html">SURVIVAL <span>DEVELOPMENT GALLERY</span></a><span class="edition">ENVIRONMENT STUDY 05</span></header>
+<html lang="en"><head><meta charset="utf-8"><meta name="viewport" content="width=device-width, initial-scale=1"><meta name="theme-color" content="#101a15"><title>Cool morning mist - Survival Gallery</title><link rel="stylesheet" href="style.css?v=6"></head>
+<body><header class="wrap masthead"><a class="brand" href="index.html">SURVIVAL <span>DEVELOPMENT GALLERY</span></a><span class="edition">ENVIRONMENT STUDY 06</span></header>
 <main class="wrap"><section class="view-header"><a class="back" href="index.html">&#8592; All views</a><p class="eyebrow">DAWN / LIGHTING STUDY</p><h1>Cool morning mist</h1><p>A curated dawn preset: low warm sunlight, cooler ambient light, and heavier mist.</p></section>
-<figure class="image-frame"><a href="images/dawn-full.png?v=5"><img src="images/dawn.jpg?v=5" width="1280" height="720" alt="A curated dawn preset: low warm sunlight, cooler ambient light, and heavier mist." fetchpriority="high"></a><figcaption>Captured in Unity at 1920 &#215; 1080. Tap the image for the original PNG. Lighting variants are curated art presets, not a running day/night or weather system.</figcaption></figure>
+<figure class="image-frame"><a href="images/dawn-full.png?v=6"><img src="images/dawn.jpg?v=6" width="1280" height="720" alt="A curated dawn preset: low warm sunlight, cooler ambient light, and heavier mist." fetchpriority="high"></a><figcaption>Captured in Unity at 1920 &#215; 1080. Tap the image for the original PNG. Lighting variants are curated art presets, not a running day/night or weather system.</figcaption></figure>
 <nav class="view-nav" aria-label="Screenshot navigation"><a href="ridge.html">&#8592; Across the forest edge</a><a class="next" href="golden.html">Late light in the meadow &#8594;</a></nav></main>
 <footer class="wrap footer">SURVIVAL <span>In-engine development captures</span></footer></body></html>

diff --git a/golden.html b/golden.html
@@ -1,7 +1,7 @@
 <!doctype html>
-<html lang="en"><head><meta charset="utf-8"><meta name="viewport" content="width=device-width, initial-scale=1"><meta name="theme-color" content="#101a15"><title>Late light in the meadow - Survival Gallery</title><link rel="stylesheet" href="style.css?v=5"></head>
-<body><header class="wrap masthead"><a class="brand" href="index.html">SURVIVAL <span>DEVELOPMENT GALLERY</span></a><span class="edition">ENVIRONMENT STUDY 05</span></header>
+<html lang="en"><head><meta charset="utf-8"><meta name="viewport" content="width=device-width, initial-scale=1"><meta name="theme-color" content="#101a15"><title>Late light in the meadow - Survival Gallery</title><link rel="stylesheet" href="style.css?v=6"></head>
+<body><header class="wrap masthead"><a class="brand" href="index.html">SURVIVAL <span>DEVELOPMENT GALLERY</span></a><span class="edition">ENVIRONMENT STUDY 06</span></header>
 <main class="wrap"><section class="view-header"><a class="back" href="index.html">&#8592; All views</a><p class="eyebrow">GOLDEN HOUR / LIGHTING STUDY</p><h1>Late light in the meadow</h1><p>A warm low-sun preset for checking foliage volume and long shadows.</p></section>
-<figure class="image-frame"><a href="images/golden-full.png?v=5"><img src="images/golden.jpg?v=5" width="1280" height="720" alt="A warm low-sun preset for checking foliage volume and long shadows." fetchpriority="high"></a><figcaption>Captured in Unity at 1920 &#215; 1080. Tap the image for the original PNG. Lighting variants are curated art presets, not a running day/night or weather system.</figcaption></figure>
+<figure class="image-frame"><a href="images/golden-full.png?v=6"><img src="images/golden.jpg?v=6" width="1280" height="720" alt="A warm low-sun preset for checking foliage volume and long shadows." fetchpriority="high"></a><figcaption>Captured in Unity at 1920 &#215; 1080. Tap the image for the original PNG. Lighting variants are curated art presets, not a running day/night or weather system.</figcaption></figure>
 <nav class="view-nav" aria-label="Screenshot navigation"><a href="dawn.html">&#8592; Cool morning mist</a><a class="next" href="overcast.html">A quieter forest path &#8594;</a></nav></main>
 <footer class="wrap footer">SURVIVAL <span>In-engine development captures</span></footer></body></html>
